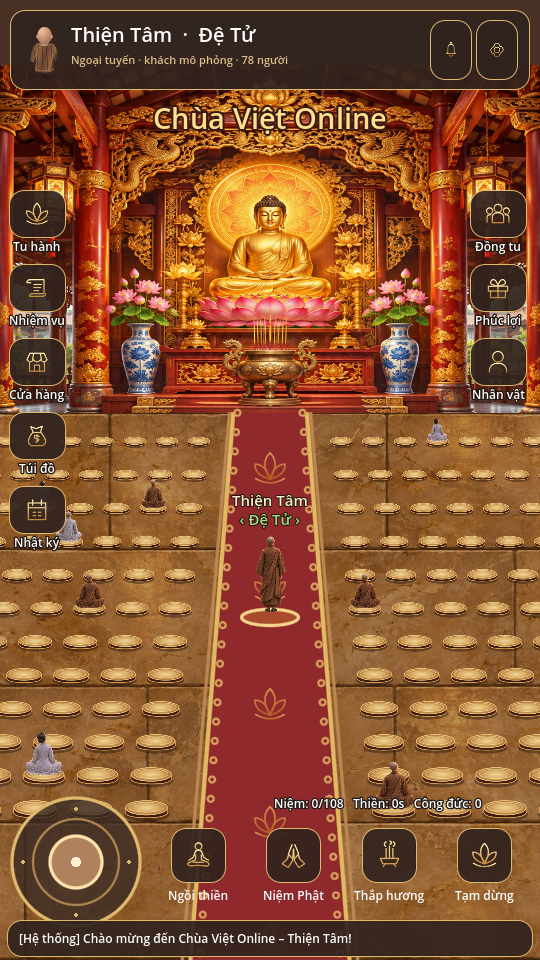
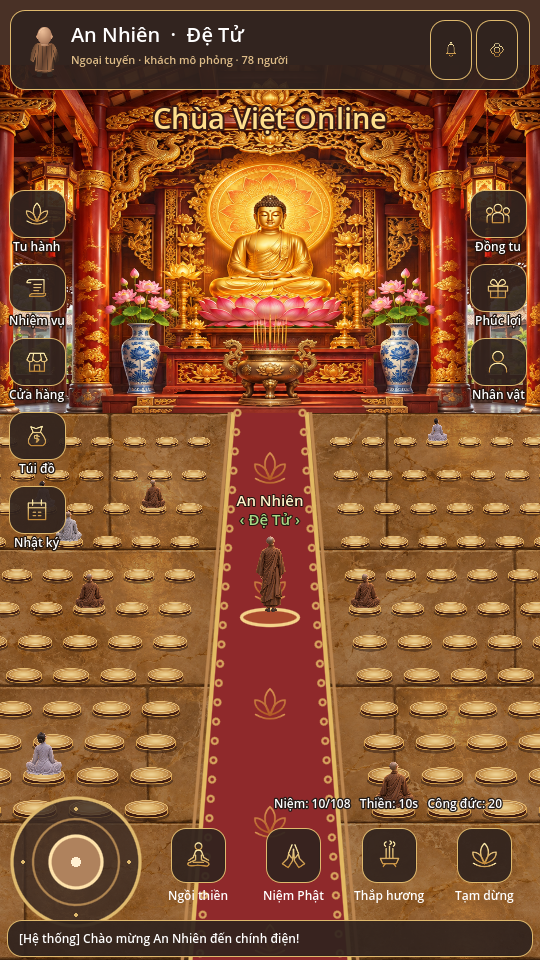
Let each player choose, save and synchronize their own display name

diff --git a/ChuaVietOnline/realtime/server.js b/ChuaVietOnline/realtime/server.js
@@ -22,7 +22,7 @@ function broadcast(obj, except=null) {
   }
 }
 function snapshot() {
-  return [...players.values()].map(p=>({id:p.id,seat:p.seat,x:p.x,y:p.y,gender:p.gender,robe:p.robe}));
+  return [...players.values()].map(p=>({id:p.id,name:p.name,seat:p.seat,x:p.x,y:p.y,gender:p.gender,robe:p.robe}));
 }
 function occupied(seat, except) {
   for (const [ws,p] of players) if (ws !== except && p.seat === seat) return true;
@@ -45,7 +45,7 @@ wss.on("connection", ws => {
   if (players.size >= MAX_CLIENTS) {
     send(ws,{type:"error",reason:"room_full"}); ws.close(); return;
   }
-  const player = {id:nextId++,seat:-1,x:860,y:900,gender:0,robe:0,lastMove:0,windowStart:Date.now(),messageCount:0};
+  const player = {id:nextId++,name:"Khách",seat:-1,x:860,y:900,gender:0,robe:0,lastMove:0,windowStart:Date.now(),messageCount:0};
   players.set(ws,player);
   send(ws,{type:"welcome",id:player.id,players:snapshot(),capacity:MAX_SEATS});
   broadcast({type:"join",player},ws);
@@ -56,7 +56,13 @@ wss.on("connection", ws => {
     const tick=Date.now();
     if(tick-player.windowStart>=1000){player.windowStart=tick;player.messageCount=0;}
     if(++player.messageCount>MAX_MESSAGES_PER_SECOND){ws.close(1008,"rate_limit");return;}
-    if (msg.type === "seat") {
+    if (msg.type === "profile") {
+      if (typeof msg.name !== "string") return;
+      const name = msg.name.trim().replace(/ +/g," ");
+      if ([...name].length < 2 || [...name].length > 20 || !/^[\p{L}\p{M}\p{N} ._'’-]+$/u.test(name)) return;
+      player.name = name;
+      broadcast({type:"profile",id:player.id,name});
+    } else if (msg.type === "seat") {
       const seat = msg.seat;
       if (typeof seat !== "number" || !Number.isInteger(seat) || seat < -1 || seat >= MAX_SEATS) {
         send(ws,{type:"seat_denied",seat:Number.isFinite(seat)?seat:-1,reason:"invalid_seat"});

diff --git a/ChuaVietOnline/realtime/server.test.js b/ChuaVietOnline/realtime/server.test.js
@@ -109,3 +109,24 @@ test("welcome includes authoritative seated position and clothing",async()=>{
     assert.equal(peer.robe,1);
   } finally {a.terminate();if(b)b.terminate();}
 });
+
+test("chosen Vietnamese names broadcast, survive snapshots and reject invalid names",async()=>{
+  const a=await connect(),nextA=messages(a);
+  let b;
+  try {
+    const welcome=await nextA("welcome");
+    a.send(JSON.stringify({type:"profile",name:"  Diệu   Hạnh  "}));
+    assert.equal((await nextA("profile")).name,"Diệu Hạnh");
+    b=await connect();
+    const nextB=messages(b);
+    const snapshot=await nextB("welcome");
+    assert.equal(snapshot.players.find(p=>p.id===welcome.id).name,"Diệu Hạnh");
+    for (const name of ["", "x", "a".repeat(21), "[b]Fake[/b]", "Tên\nGiả", null]) {
+      a.send(JSON.stringify({type:"profile",name}));
+    }
+    a.send(JSON.stringify({type:"profile",name:"An Nhiên"}));
+    assert.equal((await nextB("profile")).name,"An Nhiên");
+    await delay(60);
+    assert.equal(b._testQueue.filter(m=>m.type==="profile").length,0);
+  } finally {a.terminate();if(b)b.terminate();}
+});

diff --git a/ChuaVietOnline/README.md b/ChuaVietOnline/README.md
@@ -1,4 +1,4 @@
-# Chùa Việt Online – Thiện Tâm
+# Chùa Việt Online
 
 Dự án tiếp tục trong `ChuaVietOnline/` của AutoReviewCutter, nhánh `chua-viet-online`. Godot **4.3**, Android dọc 540×960, renderer Compatibility. Không cần dự án mới.
 
@@ -12,6 +12,10 @@ Mở `project.godot` bằng Godot 4.3 hoặc chạy:
 godot --headless --path ChuaVietOnline --editor --quit
 godot --path ChuaVietOnline
 ```
+
+## Tên người chơi
+
+Lần đầu vào game, mỗi người tự nhập tên hoặc pháp danh (2–20 ký tự, hỗ trợ tiếng Việt). Tên được lưu trên thiết bị, xuất hiện trên nhân vật, hồ sơ và nhật ký; người chơi trực tuyến thấy tên của nhau. Đổi tên trong Cài đặt. Bản cũ chưa có tên sẽ được yêu cầu nhập tên và vẫn giữ tiến trình đã lưu. Thiện Tâm trong ảnh tham chiếu chỉ là tên ví dụ.
 
 ## Điều khiển và giao diện
 

diff --git a/ChuaVietOnline/RELEASE_CHECKLIST.md b/ChuaVietOnline/RELEASE_CHECKLIST.md
@@ -57,3 +57,10 @@ Chạy `npm start` trong `ChuaVietOnline/realtime`, sau đó ở gốc repo:
 ```sh
 godot --headless --path ChuaVietOnline --script res://tests/network_test.gd
 ```
+
+## Bản 0.2.1 — mỗi người tự đặt tên
+
+- Bắt buộc nhập tên khi chưa có tên lưu; đổi tên trong Cài đặt.
+- Tên tiếng Việt 2–20 ký tự; lưu và khôi phục cùng tiến trình cũ.
+- Đồng bộ tên khi tham gia phòng, đổi tên, nhận snapshot và kết nối lại.
+- Kiểm thử giao diện/tiến trình Godot đạt; kiểm thử máy chủ 5/5 đạt; hai trình khách Godot xác nhận đổi tên và kết nối lại.
